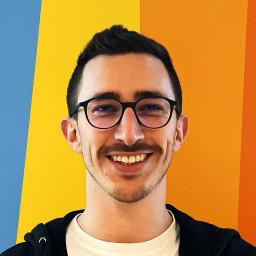
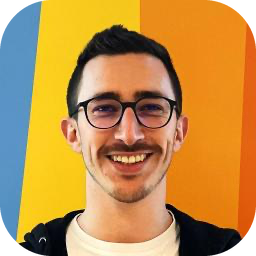
docs(repo): readme rows stack in one column without captions (#2419)
* docs(repo): readme rows stack in one column without captions

* docs(repo): round the two square contributor avatars

* docs(repo): the readme caption error says to remove it

---------

diff --git a/README.md b/README.md
@@ -19,30 +19,16 @@ Goodboy runs coding agents side by side on your own repositories, one session fo
 
 ## From task to pull request
 
-<table>
-<tr>
-<td width="44%" valign="middle">
-
 ### Tasks
 
 Issues, pull requests, Sentry errors and Slack threads from your tools sit in one list. Start a session from any of them, with the issue linked and its goal written in.
 
 [Docs →](./docs/features/inbox.md#tasks)
 
-</td>
-<td width="56%">
-
 <picture>
   <source media="(prefers-color-scheme: dark)" srcset="./docs/readme/readme-tasks-dark.webp">
   <img src="./docs/readme/readme-tasks-light.webp" alt="Tasks with Linear, GitHub and GitLab issues, and HBL-412 open beside them with its status, priority and Start" width="100%">
 </picture>
-
-<sub>Screenshot from Goodboy 0.43.0</sub>
-
-</td>
-</tr>
-<tr>
-<td width="44%" valign="middle">
 
 ### The Lead
 
@@ -50,20 +36,10 @@ A **Lead** plans the run, hands each part to a helper agent and asks you only wh
 
 [Docs →](./docs/features/agents.md#lead)
 
-</td>
-<td width="56%">
-
 <picture>
   <source media="(prefers-color-scheme: dark)" srcset="./docs/readme/readme-lead-dark.webp">
   <img src="./docs/readme/readme-lead-light.webp" alt="The Lead keeps out of the code and sends a planner first, then a build of two agents: the implementer done, the tester running" width="100%">
 </picture>
-
-<sub>Screenshot from Goodboy 0.43.0</sub>
-
-</td>
-</tr>
-<tr>
-<td width="44%" valign="middle">
 
 ### Questions
 
@@ -71,20 +47,10 @@ When an agent needs a decision, it asks once, with the options and the one it re
 
 [Docs →](./docs/features/board.md#needs-you)
 
-</td>
-<td width="56%">
-
 <picture>
   <source media="(prefers-color-scheme: dark)" srcset="./docs/readme/readme-questions-dark.webp">
   <img src="./docs/readme/readme-questions-light.webp" alt="The planner asks what a repeated webhook should return, with four options, Return the original credit recommended" width="100%">
 </picture>
-
-<sub>Screenshot from Goodboy 0.43.0</sub>
-
-</td>
-</tr>
-<tr>
-<td width="44%" valign="middle">
 
 ### Plans
 
@@ -92,20 +58,10 @@ When the Lead asks you after the plan or at every step, a planner reads the code
 
 [Docs →](./docs/features/artifacts.md#comment-on-a-plan)
 
-</td>
-<td width="56%">
-
 <picture>
   <source media="(prefers-color-scheme: dark)" srcset="./docs/readme/readme-plan-dark.webp">
   <img src="./docs/readme/readme-plan-light.webp" alt="A plan comment marked Addressed, and the concurrent retries test the planner added for it" width="100%">
 </picture>
-
-<sub>Screenshot from Goodboy 0.43.0</sub>
-
-</td>
-</tr>
-<tr>
-<td width="44%" valign="middle">
 
 ### Providers and limits
 
@@ -113,20 +69,10 @@ Goodboy runs the agents you already pay for: Claude, Codex, Cursor and five more
 
 [Docs →](./docs/features/providers.md#fallback-when-a-limit-is-hit)
 
-</td>
-<td width="56%">
-
 <picture>
   <source media="(prefers-color-scheme: dark)" srcset="./docs/readme/readme-limits-dark.webp">
   <img src="./docs/readme/readme-limits-light.webp" alt="The planner hits the Anthropic usage limit, retries on Codex and writes the plan around your answer" width="100%">
 </picture>
-
-<sub>Screenshot from Goodboy 0.43.0</sub>
-
-</td>
-</tr>
-<tr>
-<td width="44%" valign="middle">
 
 ### Projects
 
@@ -134,20 +80,10 @@ One session can work across several repositories, each on its own branch and pul
 
 [Docs →](./docs/features/workspace.md#workspace-with-several-folders)
 
-</td>
-<td width="56%">
-
 <picture>
   <source media="(prefers-color-scheme: dark)" srcset="./docs/readme/readme-projects-dark.webp">
   <img src="./docs/readme/readme-projects-light.webp" alt="A session overview: Merge in order for two parts, then ledger-core with its branches and pull requests #418 and #421" width="100%">
 </picture>
-
-<sub>Screenshot from Goodboy 0.43.0</sub>
-
-</td>
-</tr>
-<tr>
-<td width="44%" valign="middle">
 
 ### Pull requests
 
@@ -157,27 +93,14 @@ Nothing leaves your machine until you push, on GitHub, GitLab or Bitbucket.
 
 [Docs →](./docs/features/review.md)
 
-</td>
-<td width="56%">
-
 <picture>
   <source media="(prefers-color-scheme: dark)" srcset="./docs/readme/readme-prs-dark.webp">
   <img src="./docs/readme/readme-prs-light.webp" alt="Pull request #318 on its Conversation tab: not ready to merge, with 1 check failing, changes requested by omar-t and 3 commits behind main" width="100%">
 </picture>
 
-<sub>Screenshot from Goodboy 0.43.0</sub>
-
-</td>
-</tr>
-</table>
-
 <br>
 
 ## Built-in tools
-
-<table>
-<tr>
-<td width="44%" valign="middle">
 
 ### Browser
 
@@ -185,20 +108,10 @@ Open your dev server, a port or a link beside the session. Press **⌘⇧C** and
 
 [Docs →](./docs/features/keyboard.md#point-at-part-of-a-page)
 
-</td>
-<td width="56%">
-
 <picture>
   <source media="(prefers-color-scheme: dark)" srcset="./docs/readme/readme-browser-dark.webp">
   <img src="./docs/readme/readme-browser-light.webp" alt="The browser beside a session, with the PayButton component picked from src/checkout/PayButton.tsx line 42 and What should change?" width="100%">
 </picture>
-
-<sub>Screenshot from Goodboy 0.43.0</sub>
-
-</td>
-</tr>
-<tr>
-<td width="44%" valign="middle">
 
 ### Monitoring
 
@@ -206,20 +119,10 @@ Open your dev server, a port or a link beside the session. Press **⌘⇧C** and
 
 [Docs →](./docs/features/workspace.md#monitoring)
 
-</td>
-<td width="56%">
-
 <picture>
   <source media="(prefers-color-scheme: dark)" srcset="./docs/readme/readme-ports-dark.webp">
   <img src="./docs/readme/readme-ports-light.webp" alt="Monitoring: two agents run by Goodboy, the web server on port 5005 from the workspace, and what else listens on this Mac" width="100%">
 </picture>
-
-<sub>Screenshot from Goodboy 0.43.0</sub>
-
-</td>
-</tr>
-<tr>
-<td width="44%" valign="middle">
 
 ### Storage
 
@@ -227,19 +130,10 @@ The worktrees of finished sessions add up. Goodboy lists each folder with its si
 
 [Docs →](./docs/features/storage.md#worktree-folders)
 
-</td>
-<td width="56%">
-
 <picture>
   <source media="(prefers-color-scheme: dark)" srcset="./docs/readme/readme-storage-dark.webp">
   <img src="./docs/readme/readme-storage-light.webp" alt="Storage and search: 4.6 GB in Harborline, three worktrees safe to remove and Remove 3 folders in Harborline, 3.4 GB" width="100%">
 </picture>
-
-<sub>Screenshot from Goodboy 0.43.0</sub>
-
-</td>
-</tr>
-</table>
 
 <br>
 

diff --git a/docs/mock-screenshots.md b/docs/mock-screenshots.md
@@ -937,8 +937,9 @@ Pictures live outside this repo so each reshoot does not grow its history:
 push the new files to goodboy-media first, then the text here. Reusing a name
 replaces the picture in place, within the five minutes GitHub caches it.
 
-Every figure has one caption line under its `<picture>`, after a blank line:
-`<sub>Screenshot from Goodboy <version></sub>`. `docs/figures.json` is the one
+Every guide figure has one caption line under its `<picture>`, after a blank line:
+`<sub>Screenshot from Goodboy <version></sub>`. A README figure has none, so the
+page stays short on a phone, and the check fails if one gets a caption. `docs/figures.json` is the one
 source of that version, keyed `features/<name>` for a guide figure and
 `readme/<name>` for a README figure. `pnpm features:shots` writes the entry when a capture ends, with the shot args as
 its `recipe`, quoted so a POSIX shell reruns it as typed, so re-shooting a figure moves its version and a figure left alone

diff --git a/docs/release-command.md b/docs/release-command.md
@@ -88,9 +88,10 @@ Below, `X` is the new version and `X-1` is the current latest.
      release that only fixes bugs changes no figure. A release that skips
      the re-shoots leaves them to a docs pass right after it, so no picture
      stays wrong for long.
-   - Every figure in `README.md` and `docs/features/` has a caption under its
-     `<picture>`, `<sub>Screenshot from Goodboy X</sub>`, so a reader sees how
-     old it is. `docs/figures.json` holds the version of each figure. The shot
+   - Every figure in `docs/features/` has a caption under its `<picture>`,
+     `<sub>Screenshot from Goodboy X</sub>`, so a reader sees how old it is.
+     README figures carry none. `docs/figures.json` holds the version of each
+     figure. The shot
      scripts write it when they run, and a figure left as it is keeps its
      version. `pnpm run check:doc-refs` fails when a figure has no entry, when
      a caption does not match its entry, or when an entry names no figure.
